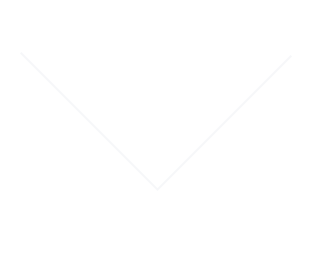
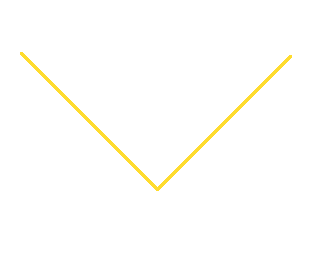
first_heroku

diff --git a/app/assets/stylesheets/index.scss b/app/assets/stylesheets/index.scss
@@ -11,27 +11,31 @@ body, html {
     text-align: center;
 }
 
+
 #wrapper1 {
     min-height: 100%;
     background-color: rgb(236,207,71);
     position: relative;
     display: block;
     text-shadow: 1px 1px 3px rgba(0, 0, 0, 0.3);
+    background-image: url("arlanda-express.png");
+	background-color: black;
+	background-repeat: no-repeat;
+	background-attachment: center;
+	background-position-x: -20px;
+	background-position-y: center;
+	background-size: cover;
+
     
 }
 
-.space {
-	height: 10%;
-}
-
-.prices p {
-	vertical-align: middle;
-	font-size: 1.5em;
+h2 {
+	line-height: 1.5;
 }
 
 
  .row {
- 	margin-bottom: 30px;
+ 	margin-bottom: 20px;
  }
 
  .row .first {
@@ -43,7 +47,7 @@ body, html {
     /*all: initial!important;
     width: 100%!important;
     height: auto!important;*/
-    width: 20%;
+    height: auto;
     position: absolute;
     display: block;
     bottom:0;
@@ -59,27 +63,35 @@ body, html {
 	background-repeat: repeat;
 	background-position: center;
 	background-attachment: bottom;
-	background-size: 400px 600px;
+	background-size: 600px 900px;
 	padding: 50px;
 	display: block;
 	text-shadow: 1px 1px 2px rgba(0, 0, 0, 0.5);
 }
+h3 {
+	line-height: 1.5;
+}
 
 #wrapper3 {
-	background-color: rgb(236,207,71);
 	background-image: url("Train02.png");
 	background-color: black;
 	background-repeat: repeat;
 	background-attachment: fixed;
-	background-position: center;
+	background-position-y: center;
+	background-position-x: -220px;
 	padding: 50px;
 	text-shadow: 1px 1px 2px rgba(0, 0, 0, 0.5);
 }
 
-a, a:hover, a:focus {
+a, a:focus {
 	color:#FFDC2E;
 	outline: none;
 }
+a:hover {
+	color:#fcff29;
+
+}
+
 .yellow {
 	color:#FFDC2E;
 }
@@ -87,8 +99,10 @@ a, a:hover, a:focus {
 #timetable .row .box {
 	border-bottom: 1px solid white;
 	margin: -5px;
-	
-
+	text-align: right;
+}
+#wrapper3 #timetable .split_button {
+	text-align: center;
 }
 
 #wrapper3 .row {
@@ -98,6 +112,8 @@ a, a:hover, a:focus {
 .timedesc {
 	padding-right: 10px;
 	padding-left: 10px;
+	display:block;
+	text-align: center;
 }
 
 .row-centered {
@@ -112,4 +128,54 @@ a, a:hover, a:focus {
 
 .bold {
 	font-weight: 900;
+}
+
+
+
+@media only screen and (max-width: 3000px) {
+
+   #wrapper1 p {font-size: 2em;}
+   h2 {font-size: 2.5em;}
+   .arrow { width: 100px; }
+
+}
+
+@media only screen and (max-width: 1000px) {
+
+   h2 {font-size: 2em;}
+   h3 {font-size: 2em;}
+   #wrapper1 p {font-size: 1.5em;}
+   .arrow { width: 100px; }
+
+}
+
+
+@media only screen and (max-width: 600px) {
+
+   h2 {font-size: 1.5em;}
+   h3 {font-size: 1.5em;}
+   #wrapper1 p {font-size: 1em;}
+   #wrapper1 {
+   	background-position-x: -100px;
+   }
+   .arrow { width: 100px; }
+   .space {
+   	margin-bottom: 100px;
+   }
+
+   #wrapper3 {
+   	background-position-x: -520px;
+   }
+
+}
+
+@media only screen and (max-width: 400px) {
+
+   .timedesc { 
+   	font-size: 0.8em; 
+   	left:-20px;
+   }
+   #wrapper1 {
+   	background-position-x: -200px;
+   }
 }

diff --git a/app/assets/javascripts/index.js b/app/assets/javascripts/index.js
@@ -19,20 +19,8 @@ $(function(){
 	}
 });
 
-// Height of space to center prices in wrapper1
 
-$(function(){ 
-
-	var w = $('#wrapper1').width()
-	$('.space').height(w*0.2);
-	if(w > 800) {
-		$('.space').height(20);
-
-	}
-
-});
-
-
+//arrow animation
 function goToByScroll(id) {
 	$('html,body').animate({
 		scrollTop: $('#' + id).offset().top},
